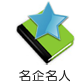
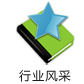
add advertise words. and some corresponding css style. change 6.png test about dpi manual-check. change id in stores and corresponding info in the database.

Changed region(s): [[0.2143, 0.8333, 0.8571, 0.9762]]

diff --git a/assets/www/www/app/controller/mainController.js b/assets/www/www/app/controller/mainController.js
@@ -115,10 +115,12 @@ Ext.define('tuanFeng.controller.mainController',{
     	    success: function(result) {
     	        var weather = result;
     	        if (weather) {
-    	        		Global.weather1Short = '<div class="weatherInfo">'        		
+    	        		Global.weather1Short = '<span class="weatherInfo">'        		
         	    		+'<div>'+weather.weatherinfo.week +'</div>'
         	    		+'<div>'+weather.weatherinfo.weather1 +'</div>'
-        	    	   +'<div>'+weather.weatherinfo.temp1+'</div></div>';                   
+        	    	   +'<div>'+weather.weatherinfo.temp1+'</div></span>'
+        	    	   +'<span class="adWords"><div>打造百亿水产，智慧水产</div>'
+    	        		+'<div>实现种苗名市，水产强市</div></span>'; 
 
     	        		Global.weather1Detail ='<div class="weather1"><div>今天:</div><img src='+Global.weatherImgUrl+weather.weatherinfo.img1+'.gif>'        		
     	        		+'<div class="weatherForecast">'+weather.weatherinfo.weather1
@@ -138,7 +140,9 @@ Ext.define('tuanFeng.controller.mainController',{
     	        me.getRef_adImg().setHtml(Global.weather1Short);
     	    },
     	    failure:function(){
-    	    	me.getRef_adImg().setHtml('<div class="weatherInfo">获取天气失败！</div>');
+    	    	me.getRef_adImg().setHtml('<span class="weatherInfo">获取天气失败！</span>'
+    	    			 +'<span class="adWords"><div>打造百亿水产，智慧水产</div>'
+     	        		+'<div>实现种苗名市，水产强市</div></span>' );
     	    }
     	});
     },

diff --git a/assets/www/www/app.js b/assets/www/www/app.js
@@ -1,8 +1,8 @@
 var Global = {
 	Author:'Rushant',
-	Website : 'http://59.69.65.153:8080/HgFisherServer',
+	//Website : 'http://59.69.65.153:8080/HgFisherServer',
 	//http://zhny.0713.me:8080/WiseAgServer
-	//Website : 'http://zhny.0713.me:8080/HgFisherServer',
+	Website : 'http://zhny.0713.me:8080/HgFisherServer',
 	//AdImgUrl:'http://59.69.65.153:8080/HgFisherServer/upload/adImg',
 	loadingText:'加载中...',
 	weatherImgUrl:'http://m.weather.com.cn/img/d',

diff --git a/assets/www/www/app/store/forum1/forum1Store1.js b/assets/www/www/app/store/forum1/forum1Store1.js
@@ -7,7 +7,7 @@ Ext.define('tuanFeng.store.forum1.forum1Store1', {
     pageSize:Global.newsPageSize,    
     proxy: {
         type: 'jsonp',
-        url : Global.Website + '/Server/getInfoTitle.jsp?categoryid=501',
+        url : Global.Website + '/Server/getInfoTitle.jsp?categoryid=511',
         reader: {
             type: 'json',
             successProperty: 'success'

diff --git a/assets/www/www/app/store/forum1/forum1Store2.js b/assets/www/www/app/store/forum1/forum1Store2.js
@@ -7,7 +7,7 @@ Ext.define('tuanFeng.store.forum1.forum1Store2', {
     pageSize:Global.newsPageSize,    
     proxy: {
         type: 'jsonp',
-        url : Global.Website + '/Server/getInfoTitle.jsp?categoryid=502',
+        url : Global.Website + '/Server/getInfoTitle.jsp?categoryid=512',
         reader: {
             type: 'json',
             successProperty: 'success'

diff --git a/assets/www/www/app/store/forum1/forum1Store3.js b/assets/www/www/app/store/forum1/forum1Store3.js
@@ -7,7 +7,7 @@ Ext.define('tuanFeng.store.forum1.forum1Store3', {
     pageSize:Global.newsPageSize,    
     proxy: {
         type: 'jsonp',
-        url : Global.Website + '/Server/getInfoTitle.jsp?categoryid=503',
+        url : Global.Website + '/Server/getInfoTitle.jsp?categoryid=513',
         reader: {
             type: 'json',
             successProperty: 'success'

diff --git a/assets/www/www/index.html b/assets/www/www/index.html
@@ -6,6 +6,8 @@
     
  	<link rel="stylesheet" href="res/css/sencha-touch.css" type="text/css">
  	<link rel="stylesheet" href="res/css/app.css" type="text/css">
+ 	<!-- High DPI Hack -->
+	<!-- <script type = "text/javascript" src = "libs/HighDPIHack.js" ></script> -->
  	<!-- SenchaTouch Lib -->
 	<script type="text/javascript" src="libs/sencha-touch-all.js"></script>
 	

diff --git a/assets/www/www/res/css/app.css b/assets/www/www/res/css/app.css
@@ -280,10 +280,18 @@
 /*定义天气信息样式*/
 .weatherIcon1{
 }
+.adWords{
+	text-align:right;
+	font-family:"楷体",'宋体',Arial;
+	font-size:110%;
+	font-weight:bold;
+	text-shadow:0 0 0.2em #91b2dd,
+					0 0 0.2em #91b2dd;
+}
 .weatherInfo{
 	float:left;
-	font-size: 100%;
-	padding:5px;
+	font-size:90%;
+	padding:2px;
 }
 .weatherForecast{
 	font-size: 80%;
